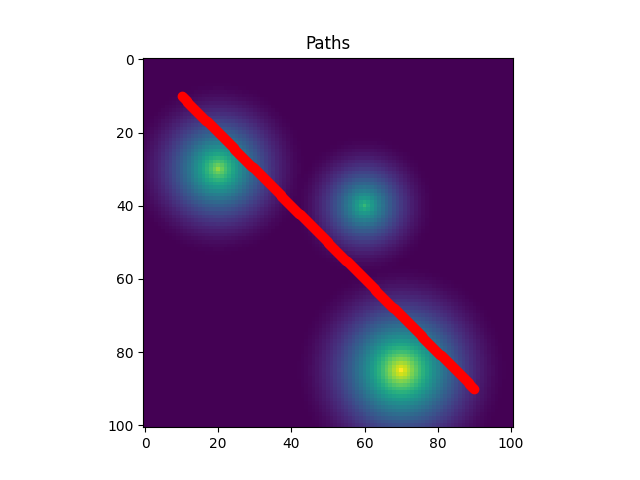
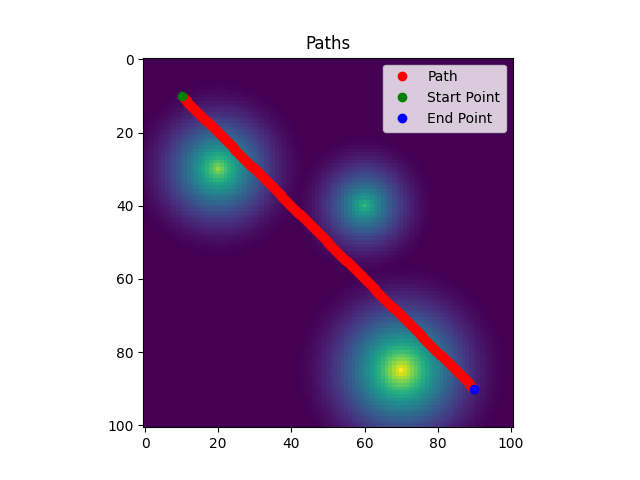
Fixes to problem 6

Changed region(s): [[0.5938, 0.125, 0.8125, 0.2812], [0.7188, 0.7812, 0.75, 0.8438], [0.2812, 0.1875, 0.3125, 0.2188]]

diff --git a/hw4/src/trajectory_optimization.py b/hw4/src/trajectory_optimization.py
@@ -9,6 +9,17 @@ BOUNDS = 0, 100
 def zero_gradient(path, grad_values, tol = 1e-5):
     return np.allclose(grad_values, 0, atol=tol)
 
+def get_path_grad(path):
+    path_grad = np.empty(path.shape)
+    for i in range(1, path.shape[0]):
+        path_grad[i] = path[i] - path[i-1]
+    return path_grad
+
+def get_biliteral_path_grad(path):
+    path_grad = np.empty(path.shape)
+    for i in range(1, path.shape[0]-1):
+        path_grad[i] = (path[i] - path[i-1])  + (path[i] - path[i+1])
+    return path_grad
 
 def optmize_path_gd(path: np.array, grad : tuple, convergence_criteria : callable, 
                     obstacle_cost: np.array, max_iter: int = 10000, learning_rate: float = 0.1):
@@ -34,9 +45,26 @@ def optmize_path_smooth(path: np.array, grad : tuple, convergence_criteria : cal
         # Read gradient from precomputed values
         x, y = path.astype(int).T
         grad_values = np.array([gx[x, y], gy[x, y]]).T
-        path_grad = path[1:] - path[:-1]
+        path_grad = get_path_grad(path)
         # Update path
-        path[1:-1] = path[1:-1] - learning_rate * (smooth_factor[0]*grad_values[1:-1] + smooth_factor[1]* path_grad[:-1])
+        path[1:-1] = path[1:-1] - learning_rate * (smooth_factor[0]*grad_values + smooth_factor[1]* path_grad)[1:-1]
+        path = np.clip(path, BOUNDS[0], BOUNDS[1])
+        if convergence_criteria(path, grad_values, tol = 1e-5):
+            break
+
+    print(f"Optimization finished after {i} iterations")
+    return path, i
+
+def optmize_path_smooth_v2(path: np.array, grad : tuple, convergence_criteria : callable, 
+                    obstacle_cost: np.array, max_iter: int = 10000, learning_rate: float = 0.1, smooth_factor: tuple = (0.8, 4)):
+    gx, gy = grad
+    for i in range(max_iter):
+        # Read gradient from precomputed values
+        x, y = path.astype(int).T
+        grad_values = np.array([gx[x, y], gy[x, y]]).T
+        path_grad = get_biliteral_path_grad(path)
+        # Update path
+        path[1:-1] = path[1:-1] - learning_rate * (smooth_factor[0]*grad_values + smooth_factor[1]* path_grad)[1:-1]
         path = np.clip(path, BOUNDS[0], BOUNDS[1])
         if convergence_criteria(path, grad_values, tol = 1e-5):
             break
@@ -58,12 +86,18 @@ def main():
 
     plot_scene(initial_path, obstacle_cost, tag= "initial_path")
     # FURTHER CODE HERE
-    simple_optimized_path, iterations = optmize_path_gd(initial_path, (gx, gy), convergence_criteria = zero_gradient, obstacle_cost= obstacle_cost, max_iter=500)
-    plot_scene(simple_optimized_path, obstacle_cost, tag= "simple_gradient", title=f"Simple Gradient Descent (Iter {iterations})")
     test_iter = [100, 200, 500]
     for i in test_iter:
         smooth_optimized_path, iterations = optmize_path_smooth(initial_path, (gx, gy), convergence_criteria = zero_gradient, obstacle_cost= obstacle_cost,  max_iter=i)
         plot_scene(smooth_optimized_path, obstacle_cost, tag= f"smooth_gradient_iter_{i}", title=f"Smooth Gradient Descent (Iter {iterations})")
+    
+    test_iter = [100, 200, 500, 1000, 5000]
+    for i in test_iter:
+        simple_optimized_path, iterations = optmize_path_gd(initial_path, (gx, gy), convergence_criteria = zero_gradient, obstacle_cost= obstacle_cost, max_iter=i)
+        plot_scene(simple_optimized_path, obstacle_cost, tag= f"simple_gradient_{i}", title=f"Simple Gradient Descent (Iter {iterations})")
+
+        smooth_optimized_path, iterations = optmize_path_smooth_v2(initial_path, (gx, gy), convergence_criteria = zero_gradient, obstacle_cost= obstacle_cost,  max_iter=i)
+        plot_scene(smooth_optimized_path, obstacle_cost, tag= f"both_smooth_gradient_iter_{i}_v2", title=f"Both endpoint smoothing (Iter {iterations})")
 
 def generate_cost():
     n = 101
@@ -83,14 +117,16 @@ def get_values(path, cost):
     x, y = path.astype(int).T
     return cost[x, y].reshape((path.shape[0], 1))
 
-
 def plot_scene(path, cost, tag="plot", title="Paths", plot_3d=False):
     values = get_values(path, cost)
 
     # Plot 2D
     plt.imshow(cost.T)
-    plt.plot(path[:, 0], path[:, 1], "ro")
+    plt.plot(path[1:-1, 0], path[1:-1, 1], "ro", label="Path")
+    plt.plot(path[0, 0], path[0, 1], "go", label="Start Point")
+    plt.plot(path[-1, 0], path[-1, 1], "bo", label="End Point")
     plt.title(title)
+    plt.legend()
     plt.savefig(f"results/{tag}_2d.png")
     plt.close()
 
@@ -100,8 +136,11 @@ def plot_scene(path, cost, tag="plot", title="Paths", plot_3d=False):
         ax3d = fig3d.add_subplot(111, projection="3d")
         xx, yy = np.meshgrid(range(cost.shape[1]), range(cost.shape[0]))
         ax3d.plot_surface(xx, yy, cost.T, cmap=plt.get_cmap("coolwarm"))
-        ax3d.scatter(path[:, 0], path[:, 1], values, s=20, c="r")
+        ax3d.scatter(path[1:-1, 0], path[1:-1, 1], values[1:-1], s=20, c="r", label="Path")
+        ax3d.scatter(path[0, 0], path[0, 1], values[0], s=50, c="g", label="Start Point")
+        ax3d.scatter(path[-1, 0], path[-1, 1], values[-1], s=50, c="b", label="End Point")
         ax3d.set_title(title)
+        ax3d.legend()
         plt.savefig(f"results/{tag}_3d.png")
         plt.close()
 
